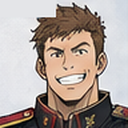
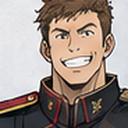
8人の顔グラを前の切り抜きに戻す
Claude-Session: https://claude.ai/code/session_01AR1wXjuAR5sE8Te44vnUbP

diff --git a/tools/faces_all.py b/tools/faces_all.py
@@ -68,9 +68,14 @@ def sheet(n):
     if n not in sheets: sheets[n] = Image.open(R + n + '.png').convert('RGB')
     return sheets[n]
 
+# 前の切り抜きのままにする人（ユーザーの希望）。ここに書いた人はこのスクリプトで書き換えない（F の枠は参考に残す）
+KEEP = {'bruno', 'otto', 'lidia', 'marianne', 'emperor', 'felix', 'guard', 'stahl'}
+
 if __name__ == '__main__':
     out = []
     for n, p in F.items():
+        if n in KEEP:
+            out.append((n, Image.open(f'assets/faces/{n}.png').convert('RGB'))); continue
         im = sheet(p['s'])
         if 'paint' in p:  # 札だけをパネルの背景色で塗る（この人の頭にはかかっていない）
             im = im.copy(); L, T, Rr, B = p['paint']

diff --git a/CLAUDE.md b/CLAUDE.md
@@ -31,7 +31,7 @@
   - 第2話のボス・グラウヴォルフの絵は `python3 tools/graywolf.py`（元の絵の背景はマゼンタ一色。戦闘用の大きい絵は大鉈とガトリング砲で横に長いので、戦闘画面では横幅でなく高さで大きさを決める＝`BIG_BY_H`）。
   - 別の機体の画像を使うときは TPL に `spr:'zekt'` のように書く（中隊と盗賊のゼクト・ゴルム）。`tint` で色を重ねられ、`spr:false` は画像なし（図形で描く）。待機・歩行・攻撃の絵がある機体は `SPR_EXTRA`。
 - ステータス画面の機体の絵は、顔グラと同じくらいの大きさ（88px）で、背景を抜いた戦闘用の絵を出す（大きく出さない。ユーザーの希望）。別の機体の画像を使う機体（`spr`）はそのファイルを使う（`sprFile`）。
-- パイロットの顔グラは `assets/faces/<名前>.png`（128×128）。設定画（`empire-01-sheet.png`・`empire-01-faces.png`・`empire-02-faces.png`・`empire-03-faces.png`・`empire-04-faces.png`・`empire-05-faces.png`・`empire-06-faces-a.png`・`empire-06-faces-b.png`・`empire-07-faces.png`・`empire-08-faces.png`・`setting-sheet.png`）の人物画から切り抜いたもの（128×128 に縮小。名前の札やパネルの枠が入らないように切る。札に頭がかかっているときは、札を塗りつぶさず札の下から切る＝頭の上が絵のふちでそろって切れる。塗りつぶすと髪や冠が平らに欠けて見えるため。ユーザーの指摘。札に頭がかかっていない人は、札をパネルの背景色で塗って頭の上に余白をとる）。切り抜きは `python3 tools/faces_all.py`（帝国編の全員分。どの人も同じ構図にそろえる＝顔を左右のまん中に、頭のてっぺんを枠の上のふちのすぐ下に、あごを下から3割くらいのところに。人ごとに頭のてっぺん・あご・顔のまん中の位置を書き、大きさは式で決める。第1話の設定資料の小さい絵は枠を直接書く。新しいキャラはここに足す。ユーザーの希望）。`FACE`（名前→ファイル名）で引き、戦闘画面・会話・ステータス画面に出す。起動時に全員分を先読みし（`FACE_IMG`）、読み込みが終わっていない顔は表示しない（前の人の顔が残って見えるのを防ぐ）。新しいキャラは設定画から切り抜いて `FACE` に足す。
+- パイロットの顔グラは `assets/faces/<名前>.png`（128×128）。設定画（`empire-01-sheet.png`・`empire-01-faces.png`・`empire-02-faces.png`・`empire-03-faces.png`・`empire-04-faces.png`・`empire-05-faces.png`・`empire-06-faces-a.png`・`empire-06-faces-b.png`・`empire-07-faces.png`・`empire-08-faces.png`・`setting-sheet.png`）の人物画から切り抜いたもの（128×128 に縮小。名前の札やパネルの枠が入らないように切る。札に頭がかかっているときは、札を塗りつぶさず札の下から切る＝頭の上が絵のふちでそろって切れる。塗りつぶすと髪や冠が平らに欠けて見えるため。ユーザーの指摘。札に頭がかかっていない人は、札をパネルの背景色で塗って頭の上に余白をとる）。切り抜きは `python3 tools/faces_all.py`（帝国編の全員分。どの人も同じ構図にそろえる＝顔を左右のまん中に、頭のてっぺんを枠の上のふちのすぐ下に、あごを下から3割くらいのところに。人ごとに頭のてっぺん・あご・顔のまん中の位置を書き、大きさは式で決める。第1話の設定資料の小さい絵は枠を直接書く。新しいキャラはここに足す。ブルーノ・オットー・リディア・マリアンネ・皇帝・フェリクス・近衛の小隊長・シュタールは前の切り抜きのほうがよいので `KEEP` に入れて書き換えない。ユーザーの希望）。`FACE`（名前→ファイル名）で引き、戦闘画面・会話・ステータス画面に出す。起動時に全員分を先読みし（`FACE_IMG`）、読み込みが終わっていない顔は表示しない（前の人の顔が残って見えるのを防ぐ）。新しいキャラは設定画から切り抜いて `FACE` に足す。
 - 会話の背景画は `assets/bg/<名前>.jpg`（縦長、スマホ縦画面向け）。`BG`（名前→ファイル）に登録し、会話の行に `bg:'hq'` と書くとその行から背景が変わる（マップを隠す solid の会話だけ。マップの上の会話でも、行に `solid:1` を書けばその行だけマップを隠して背景を出せる。ステージに `startSolid:true` を書くと、開始時の会話はすべてマップを隠して背景画のまま話し、話が終わってからマップを出す（帝国編第1話。リンデ村の背景のまま。ユーザーの希望）。行に `onmap:1` を書くとその行はマップを見せる（帝国編第1話の最後の「作戦目標」の行））。文字枠は背景のあるなしにかかわらず画面の上に置く（下だと読みにくい。ユーザーの希望）。マップの上の会話（solid でない行）は画面を暗くせず、マップをそのまま見せる（`#dialog.onmap`。ユーザーの希望）。`BG` にない名前は無地。帝国編第1話は map（大陸の地図。冒頭のナレーション。`BG_WHOLE` に入れてあり、端を切らずに全体を表示。縦向きは文字枠の下の空いたところに収め（文字枠の高さは132pxで見込むので、行ごとに地図が動かない）、横向きは地図を左・文字枠を右に並べる（`layout()`）。画像の大きさは `BG_SIZE`）・hq（司令部）・hangar（格納庫）・linde（襲撃直後のリンデ村。焼け跡があるのでほかの村には使わない）。第6話からの背景：pass（峠道）・pass_night（峠道の夜。`python3 tools/night_bg.py <元> <出力>` で昼の絵から作る）・gate（帝都の城門）・hall（宮殿の大広間）・garden（後宮の庭園）。第7話からの背景：records（軍務省の記録局）・scribe（宮廷の書記官室）・marshal（元帥府の執務室。壁の地図は `python3 tools/marshal_map.py` でこのゲームの大陸の地図に貼り替えたもの）・warehouse（帝都の外れの兵站倉庫・夕方）・cell（牢）。第8話からの背景：slum（帝都の下町）・konoe（近衛の詰所）・canal（運河沿いの穀物倉庫・新月の夜）・canal_dawn（同じ場所の夜明け。夜の絵から作る）。手直しは `python3 tools/fix_bg_e8.py`（運河の三日月と、詰所の地図の英語の文字を消す）。
 - 会話の行に `music:'player'` と書くと、その行から曲が変わる（どの話も「作戦目標」（勝利条件）の行で味方フェイズの曲に切り替える。ユーザーの希望）。
 - 会話ログ：流れた会話は `DLG_LOG` に残り、会話中の「ログ」ボタンと設定の「会話ログ」で読み返せる（`showLog`。話を始めるとき・つづきから再開するときに空にする）。
